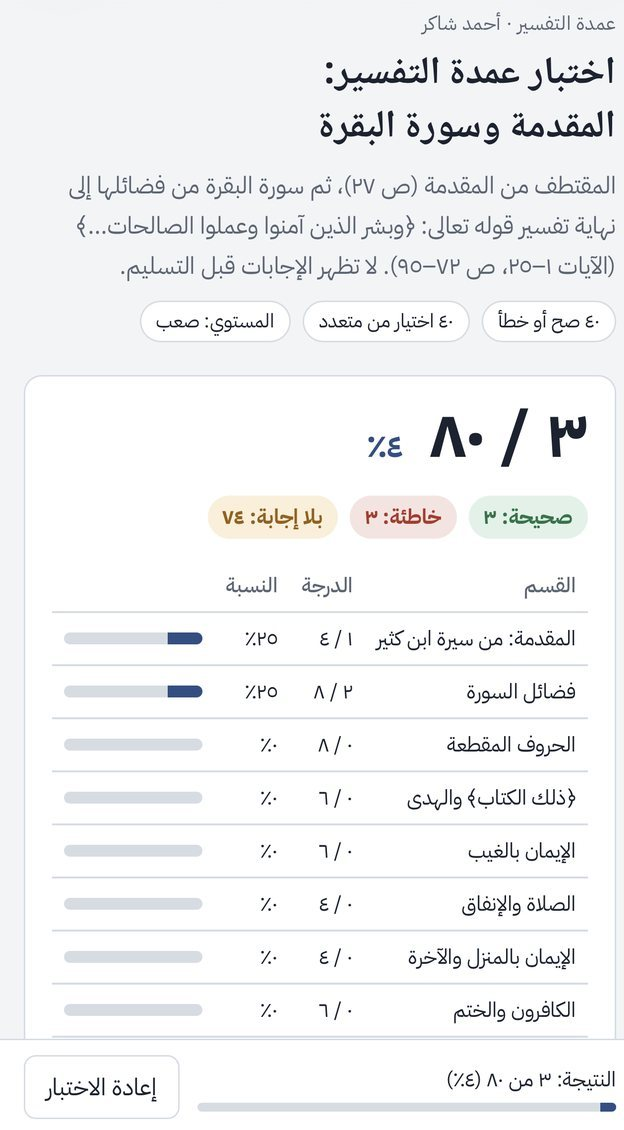
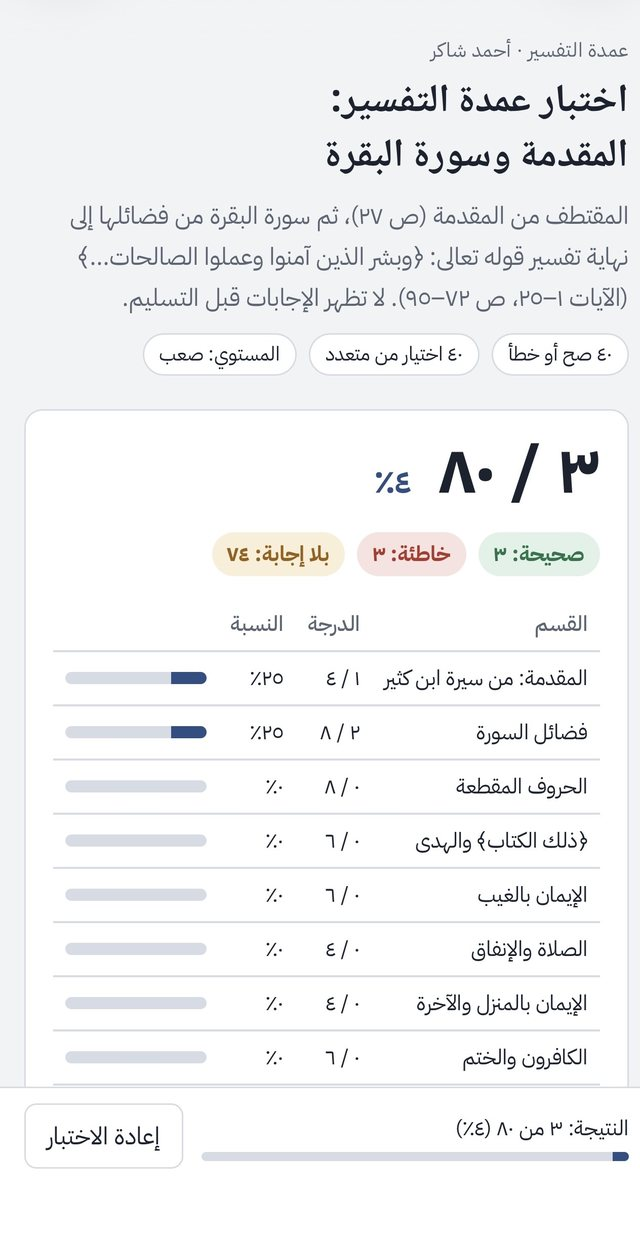
Exam maker: replace screenshots with the owner's cropped versions
Claude-Session: https://claude.ai/code/session_01Lt65LqLbcnzE6NJV8LXZgX

diff --git a/content/posts/study/exam-maker.md b/content/posts/study/exam-maker.md
@@ -8,7 +8,7 @@ tags: [ai, prompt, exam, test, practice exam, quiz, true false, multiple choice,
 ---
 Use this in **Claude**. It builds the exam as a page with its own link that you can take on your phone and share with classmates. It hasn't been tested on Gemini or ChatGPT.
 
-<figure class="showcase showcase-pair"><div class="shots"><a href="/assets/img/study/exam-results.jpg" target="_blank" rel="noopener"><img src="/assets/img/study/exam-results.jpg" width="624" height="1130" alt="Results of an 80-question practice exam on Umdat al-Tafsir: the overall score, how many were right, wrong and unanswered, and a score for each section of the material." loading="lazy"></a><a href="/assets/img/study/exam-explanation.jpg" target="_blank" rel="noopener"><img src="/assets/img/study/exam-explanation.jpg" width="640" height="1168" alt="Two corrected true/false questions: one marked correct, one marked wrong with the right answer highlighted, each with an explanation from the book." loading="lazy"></a></div><figcaption><b>What you get:</b> an 80-question practice exam on Umdat al-Tafsir, made with this prompt. After you submit, you see your score with a breakdown by section, so you know which parts to revise (left), and every question shows your answer, the right one and an explanation from the book (right). Tap to enlarge.</figcaption></figure>
+<figure class="showcase showcase-pair"><div class="shots"><a href="/assets/img/study/exam-results.jpg" target="_blank" rel="noopener"><img src="/assets/img/study/exam-results.jpg" width="640" height="1235" alt="Results of an 80-question practice exam on Umdat al-Tafsir: the overall score, how many were right, wrong and unanswered, and a score for each section of the material." loading="lazy"></a><a href="/assets/img/study/exam-explanation.jpg" target="_blank" rel="noopener"><img src="/assets/img/study/exam-explanation.jpg" width="640" height="1242" alt="Two corrected true/false questions: one marked correct, one marked wrong with the right answer highlighted, each with an explanation from the book." loading="lazy"></a></div><figcaption><b>What you get:</b> an 80-question practice exam on Umdat al-Tafsir, made with this prompt. After you submit, you see your score with a breakdown by section, so you know which parts to revise (left), and every question shows your answer, the right one and an explanation from the book (right). Tap to enlarge.</figcaption></figure>
 
 ````prompt Exam maker
 Build me an online practice exam as a single published HTML page (artifact).
